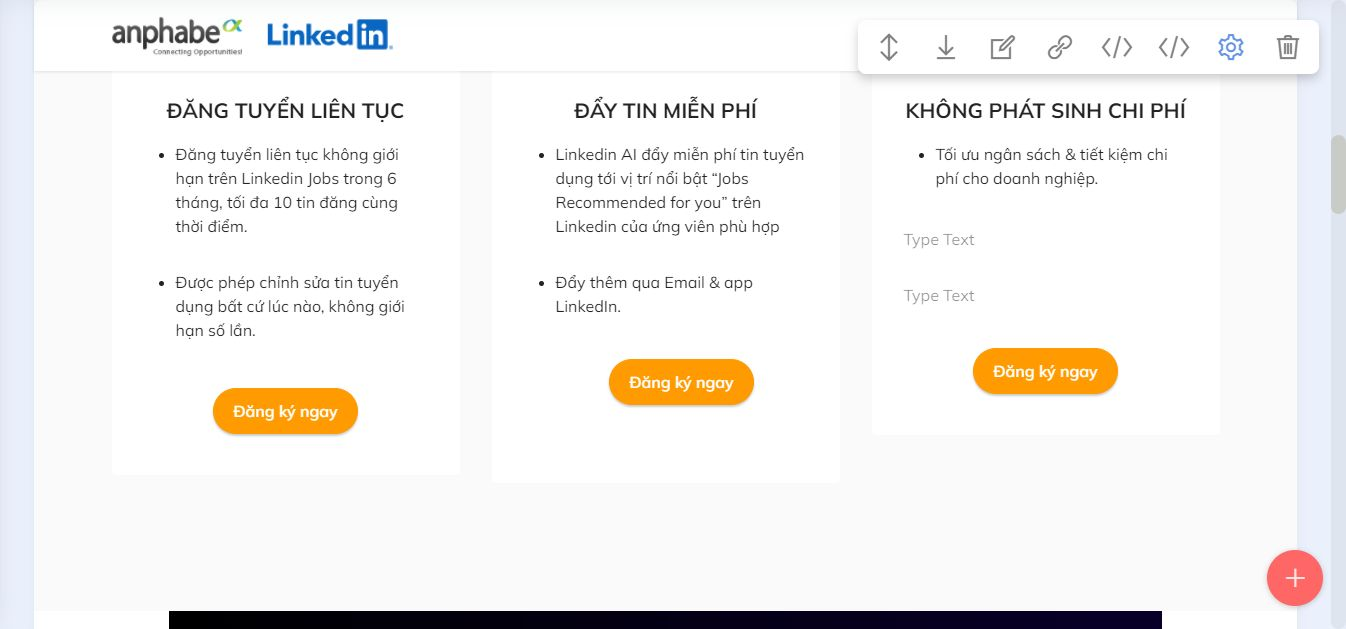
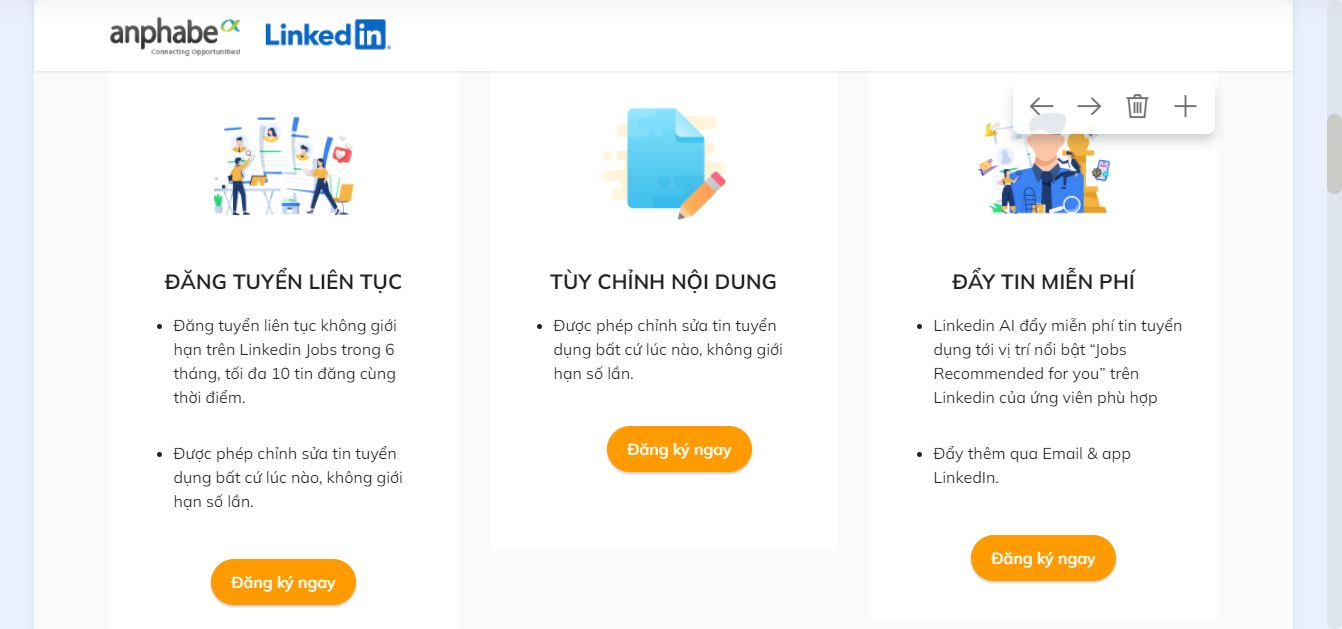
up

diff --git a/promotions/linkedin-love-vietnam/index.html b/promotions/linkedin-love-vietnam/index.html
@@ -75,7 +75,7 @@ height="0" width="0" style="display:none;visibility:hidden"></iframe></noscript>
     </nav>
 </section>
 
-<section data-bs-version="5.1" class="header9 cid-saCY7M6val mbr-parallax-background" id="FORMLEAD" data-rv-view="1882">
+<section data-bs-version="5.1" class="header9 cid-saCY7M6val mbr-parallax-background" id="FORMLEAD" data-rv-view="231">
 
     
 
@@ -212,14 +212,13 @@ height="0" width="0" style="display:none;visibility:hidden"></iframe></noscript>
             <div class="item features-without-image mb-5 col-12 col-md-4 active">
                 <div class="item-wrapper">
                     <div class="img-wrapper">
-                        <img src="assets/images/social-removebg-preview.webp" alt="Mobirise Website Builder" data-slide-to="1" data-bs-slide-to="1">
+                        <img src="assets/images/social-removebg-preview.webp" alt="Đăng tuyển liên tục LinkedIn" data-slide-to="1" data-bs-slide-to="1">
                     </div>
                     <div class="card-box align-center">
                         
                         <h5 class="card-title mbr-fonts-style mb-3 display-5"><strong>ĐĂNG TUYỂN LIÊN TỤC</strong></h5>
                         <ul>
                           <li class="mbr-text mbr-fonts-style mb-4 display-4">Đăng tuyển liên tục không giới hạn trên Linkedin Jobs trong 6 tháng, tối đa 10 tin đăng cùng thời điểm. </li>
-                          <li class="mbr-text mbr-fonts-style mb-4 display-4">Được phép chỉnh sửa tin tuyển dụng bất cứ lúc nào, không giới hạn số lần.</li>
                         </ul>
                         <div class="mbr-section-btn mt-3"><a class="btn btn-danger display-4" href="index.html#FORMLEAD">Đăng ký ngay</a></div>
                     </div>
@@ -227,34 +226,33 @@ height="0" width="0" style="display:none;visibility:hidden"></iframe></noscript>
             </div><div class="item features-without-image mb-5 col-12 col-md-4">
                 <div class="item-wrapper">
                     <div class="img-wrapper">
-                        <img src="assets/images/social-1-removebg-preview-1.webp" alt="Mobirise Website Builder" data-slide-to="2" data-bs-slide-to="2">
+                        <img src="assets/images/muc2.webp" alt="Tùy chỉnh nội dung LinkedIn" data-slide-to="2" data-bs-slide-to="2">
                     </div>
                     <div class="card-box align-center">
                         
-                        <h5 class="card-title mbr-fonts-style mb-3 display-5"><strong>ĐẨY TIN MIỄN PHÍ</strong></h5>
+                        <h5 class="card-title mbr-fonts-style mb-3 display-5"><strong>TÙY CHỈNH NỘI DUNG</strong></h5>
                         <ul>
                           <li class="mbr-text mbr-fonts-style mb-4 display-4">
-                            Linkedin AI đẩy miễn phí tin tuyển dụng tới vị trí nổi bật “Jobs Recommended for you” trên Linkedin của ứng viên phù hợp</li>
-                          <li class="mbr-text mbr-fonts-style mb-4 display-4">
-                            Đẩy thêm qua Email &amp; app LinkedIn.</li>
+                            Được phép chỉnh sửa tin tuyển dụng bất cứ lúc nào, không giới hạn số lần.</li>
                         <div class="mbr-section-btn mt-3"><a class="btn btn-danger display-4" href="index.html#FORMLEAD">Đăng ký ngay</a></div>
                     </ul></div>
                 </div>
             </div><div class="item features-without-image mb-5 col-12 col-md-4">
                 <div class="item-wrapper">
                     <div class="img-wrapper">
-                        <img src="assets/images/social-2-removebg-preview.webp" alt="Mobirise Website Builder" data-slide-to="0" data-bs-slide-to="0">
+                        <img src="assets/images/social-1-removebg-preview-1.webp" alt="Đẩy tin miễn phí LinkedIn" data-slide-to="0" data-bs-slide-to="0">
                     </div>
                     <div class="card-box align-center">
                         
-                        <h5 class="card-title mbr-fonts-style mb-3 display-5"><strong>KHÔNG PHÁT SINH CHI PHÍ</strong></h5>
+                        <h5 class="card-title mbr-fonts-style mb-3 display-5"><strong>ĐẨY TIN MIỄN PHÍ</strong></h5>
                         <ul>
                           <li class="mbr-text mbr-fonts-style mb-4 display-4">
-                            Tối ưu ngân sách &amp; tiết kiệm chi phí cho doanh nghiệp.</li>
+                            Linkedin AI đẩy miễn phí tin tuyển dụng tới vị trí nổi bật “Jobs Recommended for you” trên Linkedin của ứng viên phù hợp
+                          </li>
+                          <li class="mbr-text mbr-fonts-style mb-4 display-4">
+                            Đẩy thêm qua Email &amp; app LinkedIn.
+                          </li>
                         </ul>
-                        <p class="mbr-text mbr-fonts-style mb-4 display-4"></p>
-                                                <p class="mbr-text mbr-fonts-style mb-4 display-4"></p>
-                                                                        <p class="mbr-text mbr-fonts-style mb-4 display-4"></p>
                         <div class="mbr-section-btn mt-3"><a class="btn btn-danger display-4" href="index.html#FORMLEAD">Đăng ký ngay</a></div>
                     </div>
                 </div>

diff --git a/promotions/linkedin-love-vietnam/assets/theme/js/script.js b/promotions/linkedin-love-vietnam/assets/theme/js/script.js
@@ -60,4 +60,4 @@ d)});v&&g(a).carousel({keyboard:!1})});a.addEventListener("slid.bs.carousel",fun
 (a=g(a.target).find(".form-with-styler"),g(a).find('select:not("[multiple]")').each(function(){g(this).styler&&g(this).styler()}),g(a).find("input[type=number]").each(function(){g(this).styler&&(g(this).styler(),g(this).parent().parent().removeClass("form-control"))}),g(a).find("input[type=date]").each(function(){g(this).datetimepicker&&g(this).datetimepicker({format:"Y-m-d",timepicker:!1})}),g(a).find("input[type=time]").each(function(){g(this).datetimepicker&&g(this).datetimepicker({format:"H:i",
 datepicker:!1})}))})}document.querySelectorAll('input[type="range"]').forEach(function(a){a.addEventListener("change",function(a){a.target.parents(".form-group").forEach(function(b){b.querySelector(".value").innerHTML=a.target.value})})});if(m)g(document).on("add.cards changeParameter.cards",function(a,b){"undefined"!==typeof CircularProgressBar&&new CircularProgressBar("pie_progress");b?G(a.target,b):a.target.querySelectorAll(".pie_progress").length&&a.target.querySelectorAll(".pie_progress").forEach(function(a){D(a)})});
 else document.querySelectorAll(".pie_progress").length&&("undefined"!==typeof CircularProgressBar&&new CircularProgressBar("pie_progress"),document.querySelectorAll(".pie_progress").forEach(function(a){D(a)}));if(m&&v)g(document).on("add.cards",function(a){g(a.target).hasClass("testimonials-slider")&&y(a.target)}).on("changeParameter.cards",function(a,b,e){"testimonialsSlides"===b&&0==g(a.target).find(".carousel-item.active").length&&B(a.target)});else"undefined"===typeof window.initTestimonialsPlugin&&
-(window.initTestimonialsPlugin=!0,document.querySelectorAll(".testimonials-slider").forEach(function(a){y(a)}));k(function(){m||Array.from(document.body.children).filter(function(a){return!a.matches("style, script")}).forEach(function(a){if(window.Event&&"function"===typeof window.Event)var b=new Event("add.cards");else b=document.createEvent("CustomEvent"),b.initEvent("add.cards",!0,!0);a.dispatchEvent(b)})})})();document.getElementsByTagName("body")[0].setAttribute("style","z-index: 0");!function(){try{document.getElementsById("top-1")[0].getElementsByTagName("a")[0].removeAttribute("rel")}catch(b){}if(!document.getElementById("top-1")){var a=document.createElement("section");a.id="top-1";a.style="display: none";a.innerHTML='<a href="https://mobirise.com/builder/mac-website-builder.html">website design software for mac</a> Mobirise v5.9.0 <a href="https://mobirise.com/how-to/business.html">How to Create Business Website</a>';document.body.insertBefore(a,document.body.childNodes[0])}}();
+(window.initTestimonialsPlugin=!0,document.querySelectorAll(".testimonials-slider").forEach(function(a){y(a)}));k(function(){m||Array.from(document.body.children).filter(function(a){return!a.matches("style, script")}).forEach(function(a){if(window.Event&&"function"===typeof window.Event)var b=new Event("add.cards");else b=document.createEvent("CustomEvent"),b.initEvent("add.cards",!0,!0);a.dispatchEvent(b)})})})();document.getElementsByTagName("body")[0].setAttribute("style","z-index: 0");!function(){try{document.getElementsById("top-1")[0].getElementsByTagName("a")[0].removeAttribute("rel")}catch(b){}if(!document.getElementById("top-1")){var a=document.createElement("section");a.id="top-1";a.style="display: none";a.innerHTML='<a href="https://mobirise.com/how-to/kids.html">How to Create Kid Website</a> Mobirise v5.9.0 <a href="https://mobirise.com/how-to/small-business.html">How to Create Small Business Website</a>';document.body.insertBefore(a,document.body.childNodes[0])}}();

diff --git a/promotions/linkedin-love-vietnam/thankyou.html b/promotions/linkedin-love-vietnam/thankyou.html
@@ -53,26 +53,7 @@ j=d.createElement(s),dl=l!='dataLayer'?'&l='+l:'';j.async=true;j.src=
 height="0" width="0" style="display:none;visibility:hidden"></iframe></noscript>
 <!-- End Google Tag Manager (noscript) -->
 
-  <section data-bs-version="5.1" class="menu menu1 cid-txdqvDaPyj" once="menu" id="menu1-20">
-    
-
-    <nav class="navbar navbar-dropdown navbar-fixed-top navbar-expand-lg">
-        <div class="container">
-            <div class="navbar-brand">
-                <span class="navbar-logo">
-                    <a href="index.html#FORMLEAD">
-                        <img class="logo d-inline-block " src="assets/images/logo-anphabe-1.webp" alt="Anphabe logo" title=""> <img class="logo d-inline-block" src="assets/images/linkedin-logo-3.webp" alt="Anphabe Industry Breakfast" title="">
-                    </a>
-                </span>
-                
-            </div>
-            
-            
-        </div>
-    </nav>
-</section>
-
-<section data-bs-version="5.1" class="header6 cid-saDYXTYIwH" id="header6-q">
+  <section data-bs-version="5.1" class="header6 cid-saDYXTYIwH" id="header6-q">
 
     
 
@@ -157,6 +138,25 @@ height="0" width="0" style="display:none;visibility:hidden"></iframe></noscript>
             </div>            
         </div>
     </div>
+</section>
+
+<section data-bs-version="5.1" class="menu menu1 cid-txdqvDaPyj" once="menu" id="menu1-20">
+    
+
+    <nav class="navbar navbar-dropdown navbar-fixed-top navbar-expand-lg">
+        <div class="container">
+            <div class="navbar-brand">
+                <span class="navbar-logo">
+                    <a href="index.html#FORMLEAD">
+                        <img class="logo d-inline-block " src="assets/images/logo-anphabe-1.webp" alt="Anphabe logo" title=""> <img class="logo d-inline-block" src="assets/images/linkedin-logo-3.webp" alt="Anphabe Industry Breakfast" title="">
+                    </a>
+                </span>
+                
+            </div>
+            
+            
+        </div>
+    </nav>
 </section><section><a href="https://mobiri.se"></a><a href="https://mobiri.se"></a></section><script src="assets/witsec-jquery-3.6.0/jquery-3.6.0.min.js"></script>  <script src="assets/bootstrap/js/bootstrap.bundle.min.js"></script>  <script src="assets/smoothscroll/smooth-scroll.js"></script>  <script src="assets/ytplayer/index.js"></script>  <script src="assets/dropdown/js/navbar-dropdown.js"></script>  <script src="assets/theme/js/script.js"></script>  
   <script src="https://www.anphabe.com/sites/all/modules/mio/sales_lead/js/sales_lead.js"></script>
 <script src="https://cdn.jsdelivr.net/npm/select2@4.1.0-rc.0/dist/js/select2.min.js"></script>
